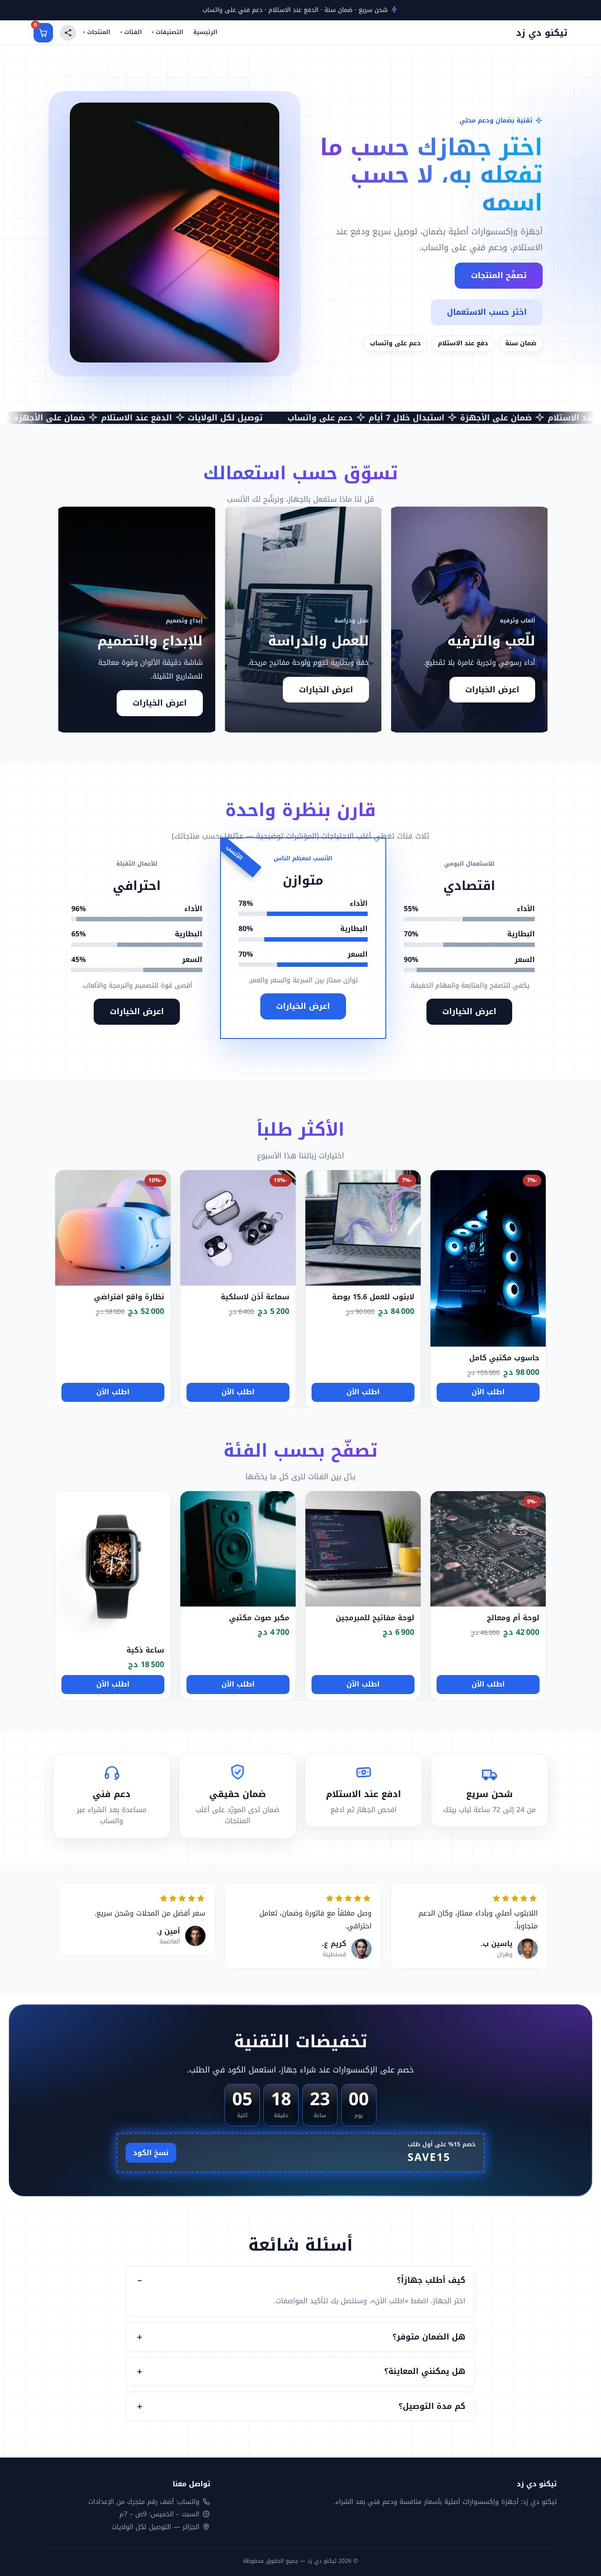
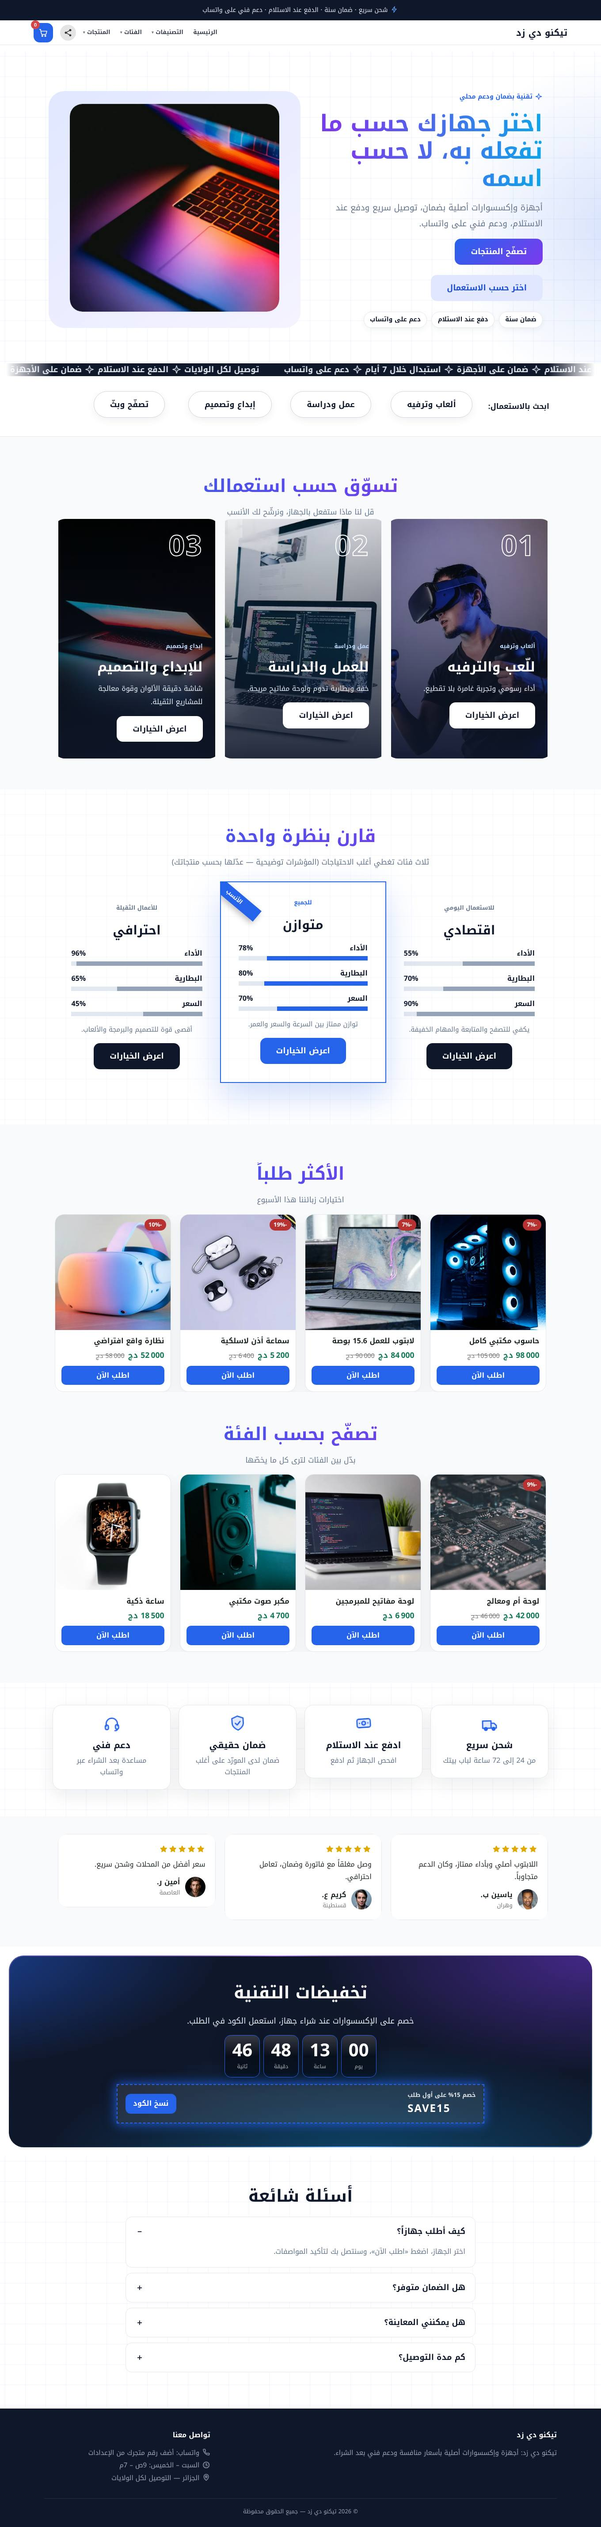
docs+thumbs: لقطات قبل/بعد وتابلت ومعاينات القالبين بعد رفع المستوى البصري، وسجل التغييرات
Claude-Session: https://claude.ai/code/session_0141cZSU8KsZF3m8G44FMnJF

diff --git a/platform/docs/changelog.md b/platform/docs/changelog.md
@@ -1949,3 +1949,5 @@
 **v1.89.1101 — مواعيد الرقية خاصة بالبائع فقط + بطاقات المواعيد (طلب صاحب المتجر):** (1) قائمة المواعيد في اللوحة صارت **بطاقات كبيرة** بدل الجدول الأفقي (كان زر «إلغاء الموعد» خارج الشاشة في الهاتف): الساعة والحالة، الاسم بخط كبير، صفوف (الهاتف/البلدية/الجلسة/المبلغ)، قائمة المنتجات، وأزرار كبيرة في شبكة عمودين (تأكيد/تمت، واتساب، فتح الملف، موعد آخر، **إلغاء الموعد** و«حظر» بلون أحمر)؛ حقول السقف في شبكة منظّمة؛ الأيام القادمة تصاعدياً والسابقة تنازلياً. (2) **عزل المنصة:** `admin-ruqya.js` أُخرج من `shared-files.json` فلا يصل تحديثات العملاء؛ في `admin.html` الأزرار/التبويب/محمّل السكربت داخل علامات `<!--RUQYA:start/end-->` والمحمّل لا يعمل إلا مع `CONFIG.SELLER`؛ و`make-template.py` ينزع العلامات وأيقونة القسم و`admin-ruqya.js` و`ruqya-avis.json` و`supabase/ruqya.sql` ومقال المساعدة `ruqya-booking` من أي حزمة عميل (عادية أو تحديث). بطاقة/أزرار الصفحة الرئيسية تتطلب `AdminRuqya`. صفحات الرقية (`assets/pages/ruqya-*` و`ruqya-booking/` و`ruqya-patient/`) أصلاً لا تُشحن. اختُبر: بطاقات على iPhone مع بيانات وهمية (4 بطاقات، 4 أزرار إلغاء، بلا تمرير أفقي)؛ حزمة عميل مولَّدة (لا ملف ولا زر ولا طلب شبكة ولا خطأ JS) والموقع بلا `SELLER` لا يحمّل الوحدة. **لم يُجرَّب:** تحديث عميل حقيقي عن بُعد؛ العملاء الذين استلموا `admin-ruqya.js` سابقاً يبقى ملفه عندهم لكنه لا يعمل (محمّله محذوف من `admin.html` الجديد).
 
 **فرع `feature/alyssum-theme-studio` (بلا رفع إصدار ولا دمج في main) — تجربتان تصميميتان لقوالب المتجر القديمة (طلب صاحب المتجر):** أُعيد تركيب `s-watches` (هيرو بساعة كبيرة مقصوصة ومحيطة بها مواصفات بخطوط وصل كعناصر حرة، فصول صورة/نص متناوبة بأرقام كبيرة، شريط أرقام، لافتة، منتجات في سلايدر، خدمات) و`s-tech` (هيرو مقسوم بصورة وبطاقات، «تسوّق حسب استعمالك» ببطاقات صور، مقارنة ثلاث فئات بمؤشرات `progress`، «الأكثر طلباً»، تصفّح بحسب الفئة بتبويبات) بمكوّنات المطوّر الأصلية فقط. الملف الجديد `scripts/gen-templates-pilots.py` (مولّد معرّفات معزول فلا يتغيّر أي قالب آخر؛ تغيّرت الملفات `s-watches/s-tech/prod-*/index.json` فقط). اختبارات جديدة `tests/pilot-editability.js`؛ صور قبل/بعد في `docs/pilots/`. **لم يُجرَّب:** تثبيت القالبين على متجر حقيقي بمنتجات صاحبه، وربط المنتجات بالفئات تلقائياً (يحتاج مفاتيح `cat` في منتجات المتجر).
+
+**فرع `feature/alyssum-theme-studio` (تحديث التجربتين، بلا رفع إصدار): الصور بدائل مؤقتة والتصميم يصمد مع أي صورة (طلب صاحب المتجر):** إطارات صور ثابتة (`fit=cover` + ارتفاع مثبّت) مع وسيط «نقطة تركيز الصورة» و«نسبة صورة البطاقة»، وإزالة قصة الهيرو (crop) المرتبطة بأبعاد صورة تجريبية؛ s-watches: هيرو بقوس إطاره ذهبي وخطوط وصل تلامس حافته؛ s-tech: شريط «ابحث بالاستعمال» وبطاقات استعمال مرقّمة. اختُبر باستبدال كل الصور بأبعاد مختلفة (ارتفاع الصفحة متطابق) وبطارية القبول 82/82 و`pilot-editability` 16/16. **لم يُجرَّب:** استبدال الصور عبر واجهة مكتبة الوسائط على كل صورة رئيسية.
